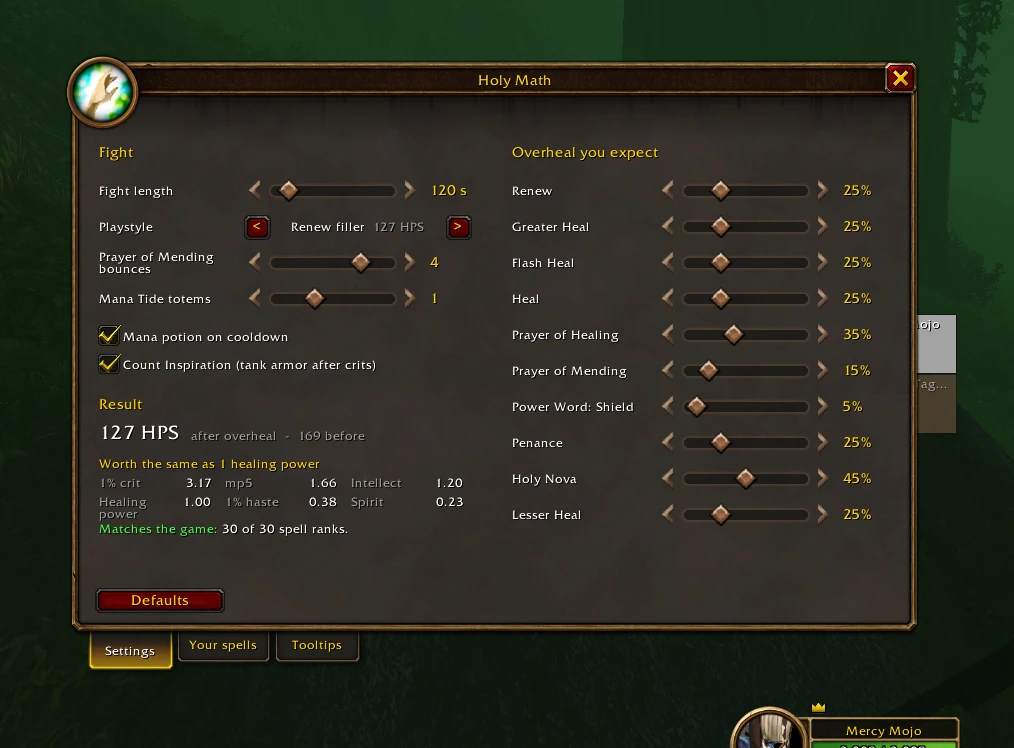
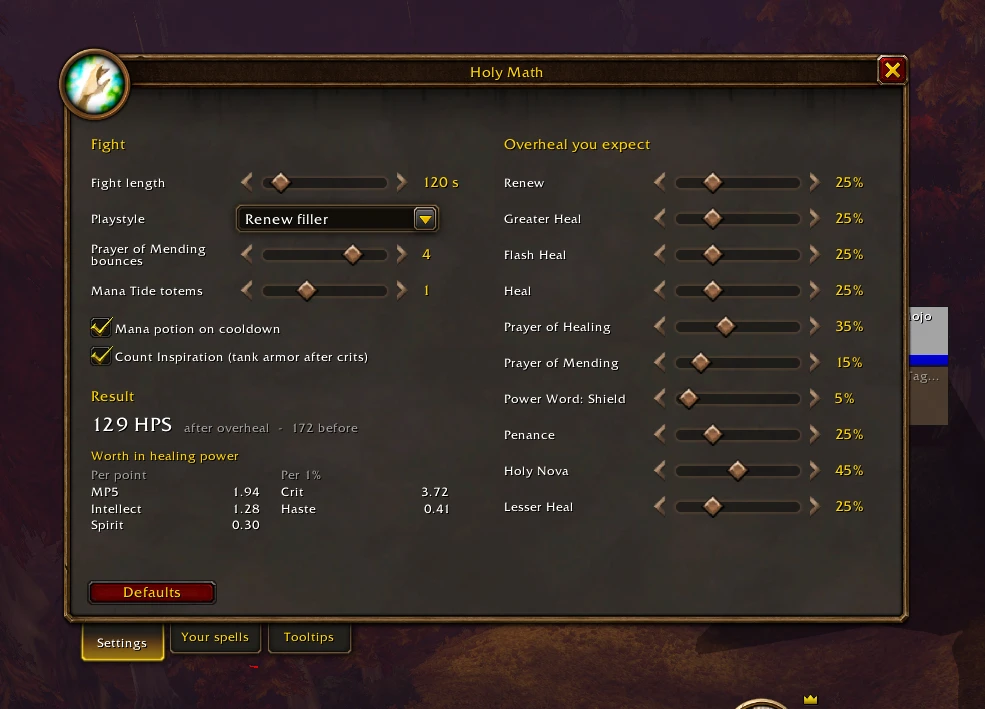
Holy Math: game's dropdown, clearer stat values, new screenshot
- Playstyle uses the game's own dropdown (WowStyle1) again, names only,
  no HPS. Chosen knowing it once tainted the Group Finder; the look-alike
  stays as the fallback when the template is missing.
- Stat values: "Worth in healing power", in two groups the way gear gives
  them: intellect, MP5 and spirit per point; crit and haste per 1%.
- MP5 written in capitals wherever it's shown.
- The "Matches the game" line only shows up when some spell ranks differ;
  /hm check still prints the whole comparison.
- README: new screenshot, and the level-50 tooltip/downranking finding.

diff --git a/README.md b/README.md
@@ -7,10 +7,10 @@ The maths behind a healing priest in **World of Warcraft: Forever**, worked out 
 ## What it does
 
 - **Item tooltips:** how much an item gains or loses you in healing per second, e.g. `Holy Math: +16.2 HPS (+1.8%)`. The whole model is rerun with the item swapped in, not a fixed stat weight. Gear a priest can't use says so ("can't wear Plate", "for Mage only").
-- **Your HPS and stat values:** what you heal per second over a fight, and what intellect, spirit, mp5, crit and haste are worth to you compared with healing power, right now.
+- **Your HPS and stat values:** what you heal per second over a fight, and what each stat is worth to you in healing power right now: intellect, MP5 and spirit per point, crit and haste per 1% (the way gear gives them).
 - **Playstyles:** Renew filler, Greater Heal filler, Flash Heal filler, Prayer of Healing filler, PW:Shield on tank, and Renewed Hope tank (Discipline, with the talent). Each picks the spell ranks that heal the most for you.
-- **Spell overview:** every healing spell you know: heal, mana, healing per mana and per second, and its most mana-efficient rank. Click a spell to unfold all its ranks, with how much of your healing power each low rank still gets.
-- **Checks itself against the game:** every spell rank you know is compared with the game's own spell tooltip ("Matches the game: 30 of 30 spell ranks").
+- **Spell overview:** every healing spell you know: heal, mana, healing per mana and per second, and its most mana-efficient rank. Click any spell to unfold all its ranks, with how much of your healing power each low rank still gets.
+- **Checks itself against the game:** every spell rank you know is compared with the game's own spell tooltip. `/hm check` shows the comparison; the window only speaks up when something doesn't match.
 
 Everything recalculates by itself when your gear, buffs, talents or settings change.
 
@@ -35,7 +35,8 @@ The **Settings** tab holds the assumptions: fight length (default 120 s, a typic
 - **Your stats** (healing power, crit, mana, regen, talents, known ranks) are read from the game.
 - **Spell and talent data** (base heals per rank and level, coefficients, costs, talent values, spirit regen) is the game's own data as extracted by [wowsims/forever](https://github.com/wowsims/forever). `Models/PriestData.lua` is generated from it by `tools/gen_priest_data.py`.
 - **The fight model** (mana budget, cooldowns, regen pauses, Inner Focus, Inspiration) started as a port of [doublezug's healer-priest spreadsheet](https://docs.google.com/spreadsheets/d/19SaCaDQJzhMFL-nIW4ryzFwI53FmsnDvaxRfLbvM-CE/edit?gid=1807392634#gid=1807392634). Its formulas are reproduced exactly in the tests, and the places where the game shows something different are corrected and documented in the code.
-- **Checked in game:** costs, base heals, coefficients, downranking (the penalty starts 12 levels after a rank's max level), Holy and Discipline talent values, and the regen formula all match the client's own numbers. Prayer of Mending ignores the healing power Spiritual Guidance gives you from spirit, as the client's tooltip shows.
+- **Checked in game:** costs (with talents such as Improved Healing), base heals, coefficients, downranking (the penalty starts 12 levels after a rank's max level), Holy and Discipline talent values, and the regen formula all match the client's own numbers. Prayer of Mending ignores the healing power Spiritual Guidance gives you from spirit, as the client's tooltip shows.
+- **Downranking and tooltips:** from level 50 the game's spell tooltips show low ranks at full healing power, but their real heals still have the penalty (Renew rank 1 ticks for exactly the penalised amount). Holy Math uses what the spells really heal.
 
 ## Development
 
